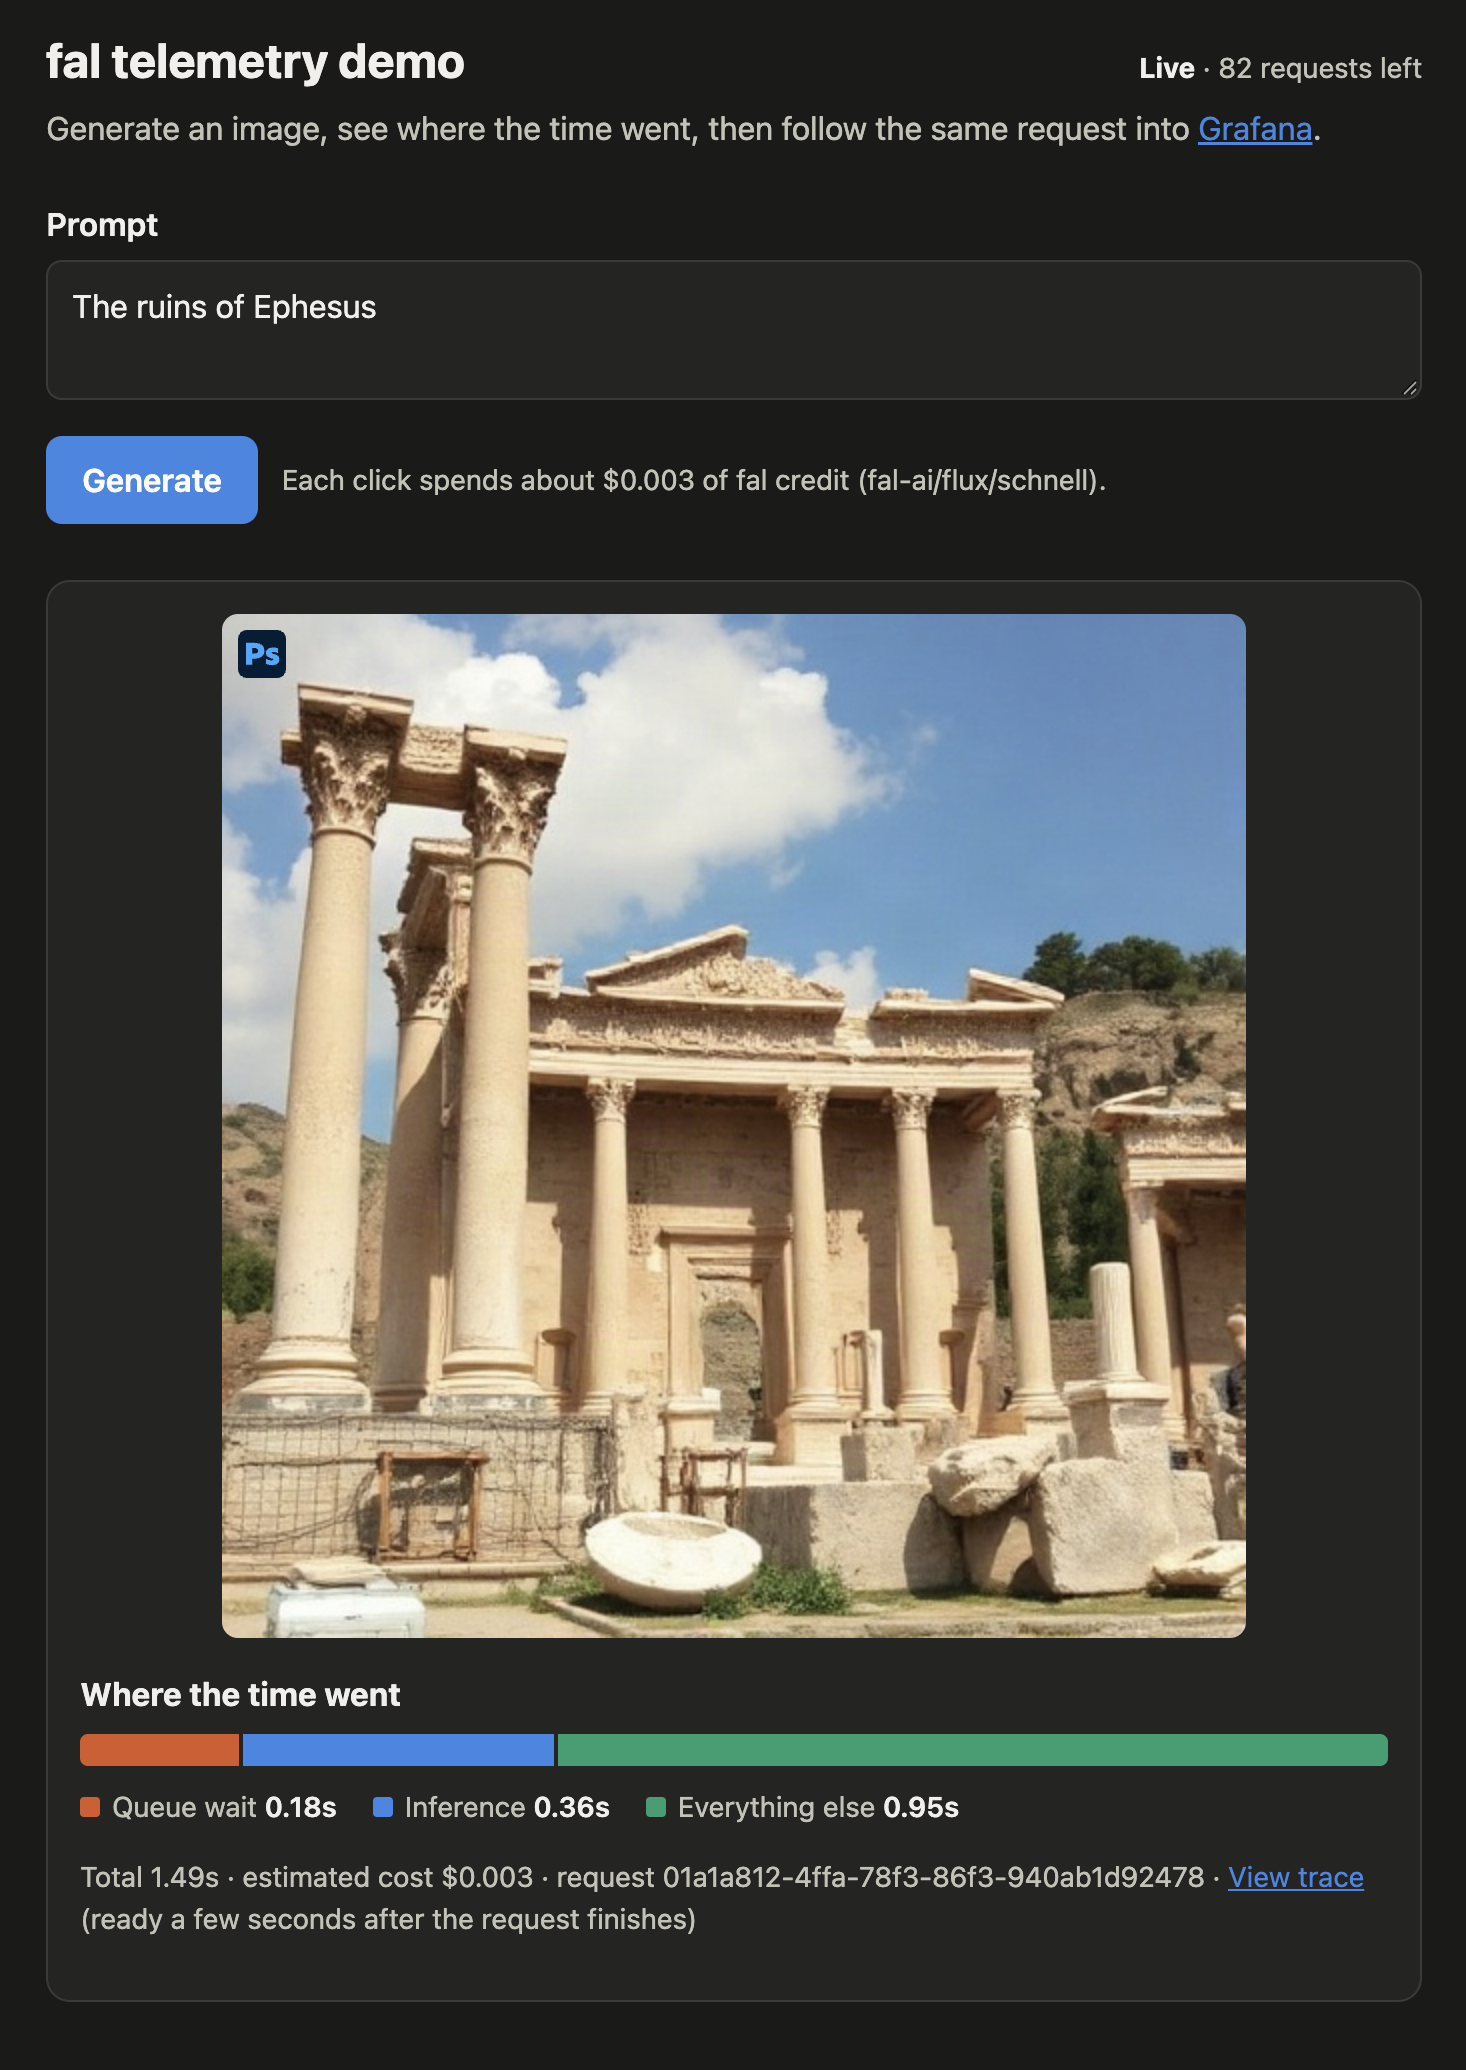
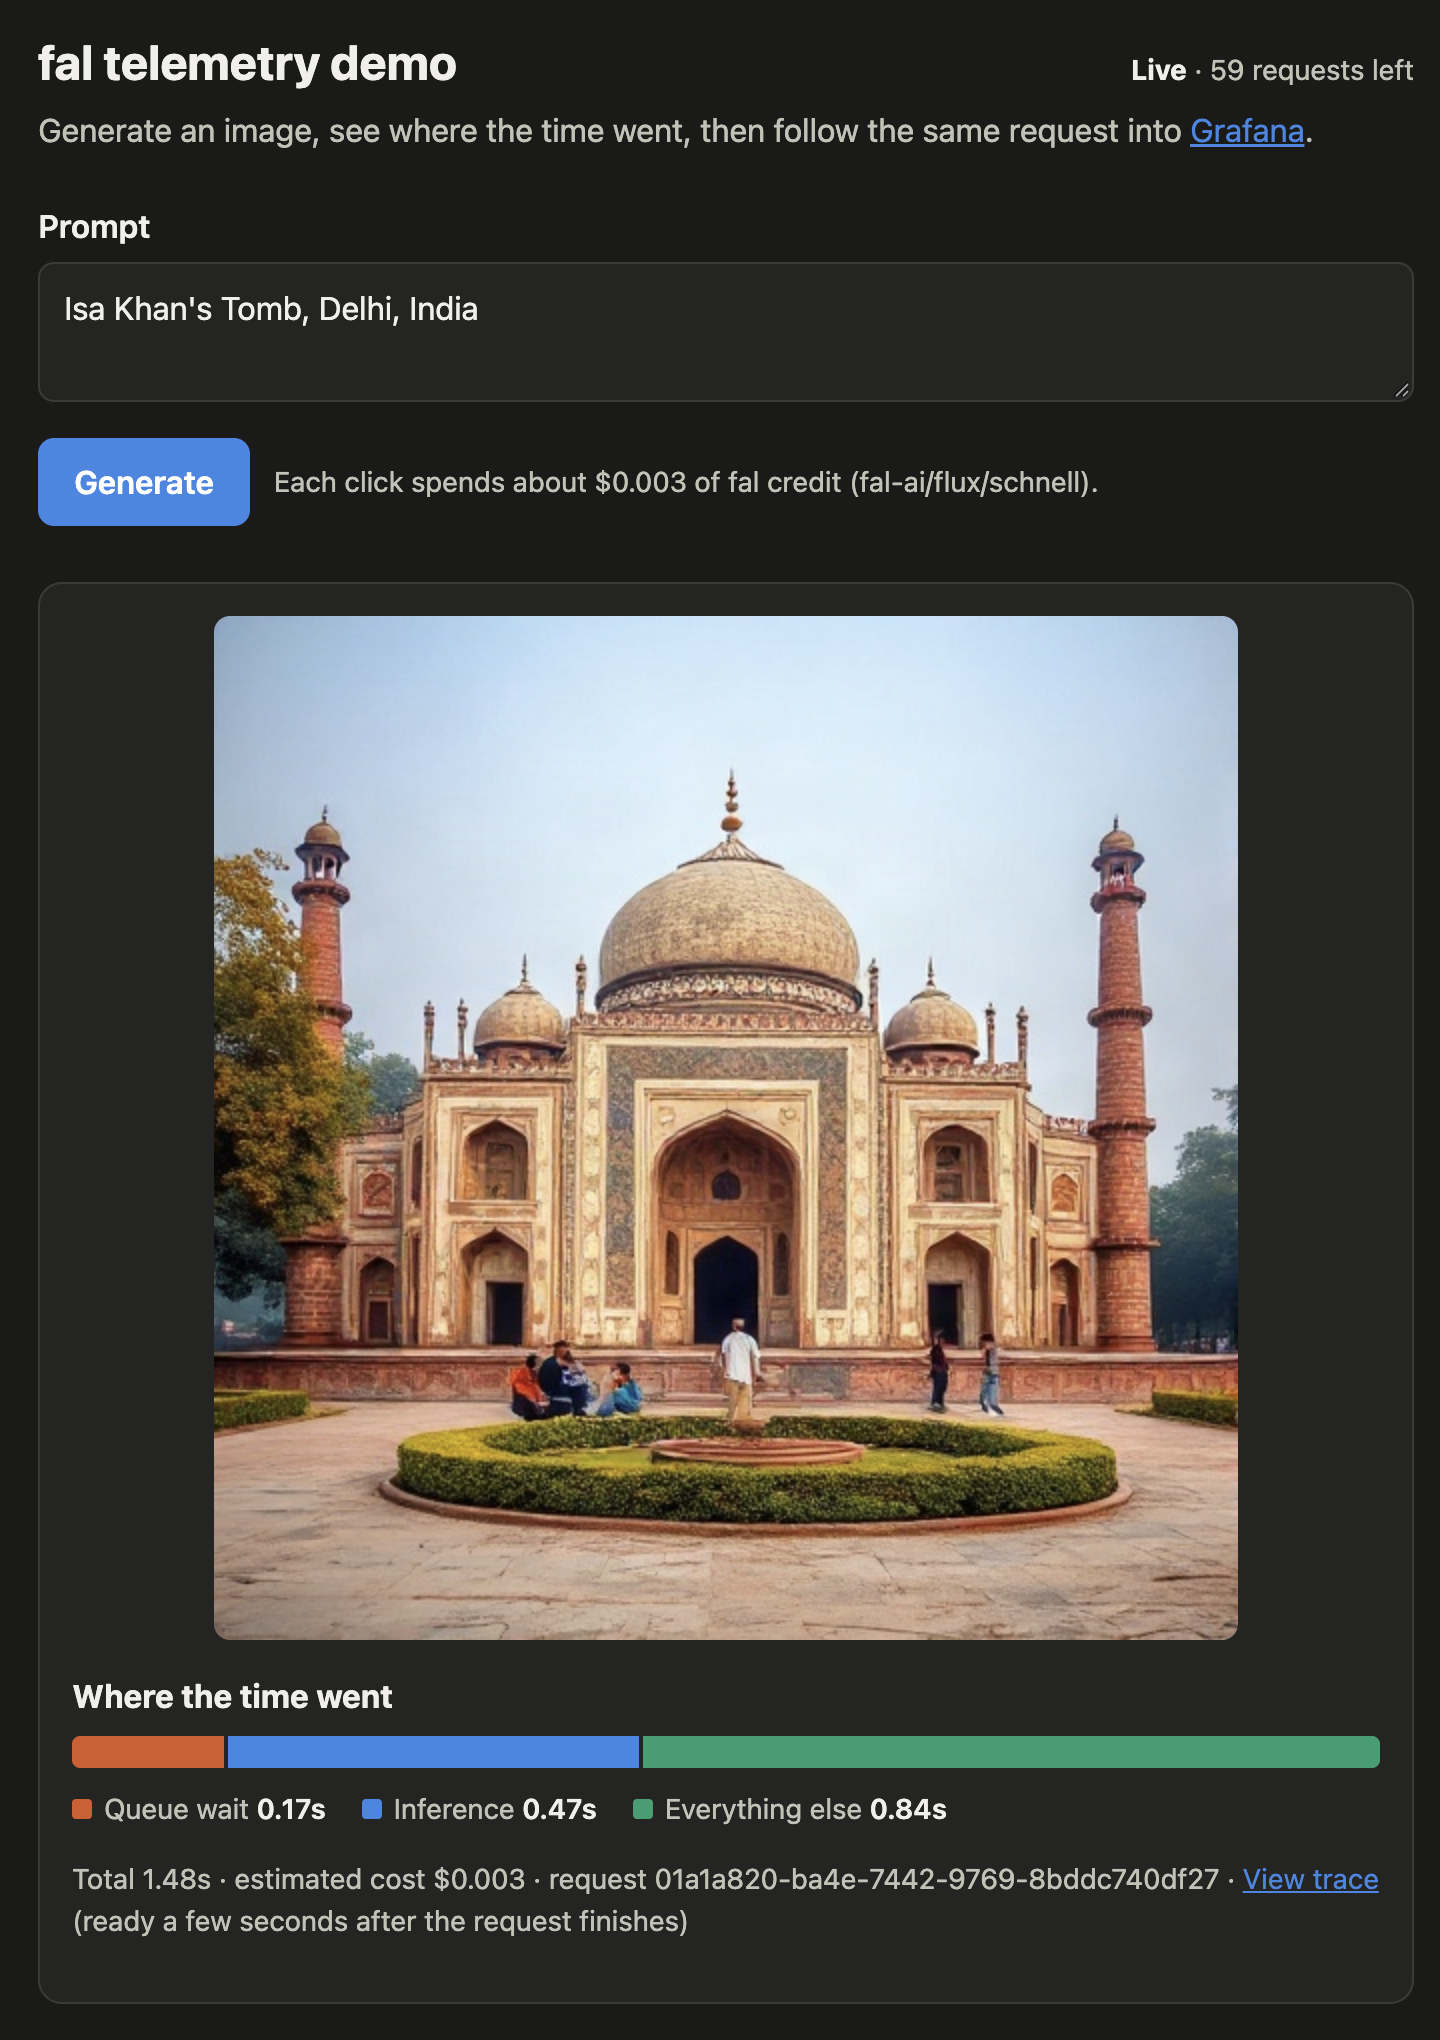
Update web UI screenshot

diff --git a/README.md b/README.md
@@ -27,7 +27,7 @@ low, which a single latency number would hide.
 **Web UI.** A real image from a live fal call, with the time split into queue wait, inference and
 everything else.
 
-<img src="screenshots/inference-ui.png" alt="Web UI showing a generated image of the ruins of Ephesus and a timing breakdown" width="480">
+<img src="screenshots/inference-ui.png" alt="Web UI showing a generated image of Isa Khan's Tomb and a timing breakdown" width="480">
 
 **Prometheus alert rules.** All four rules loaded, none firing.
 
